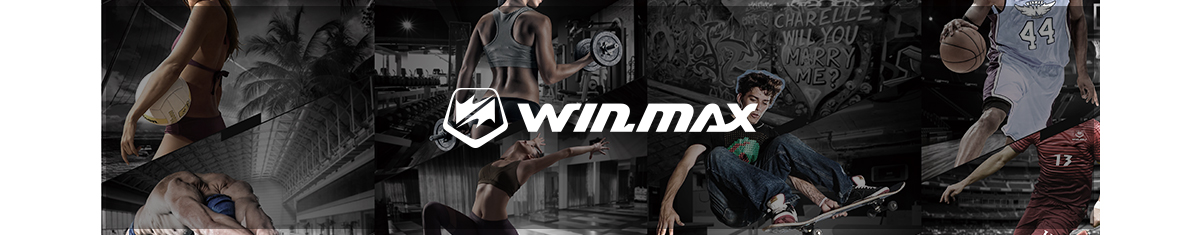
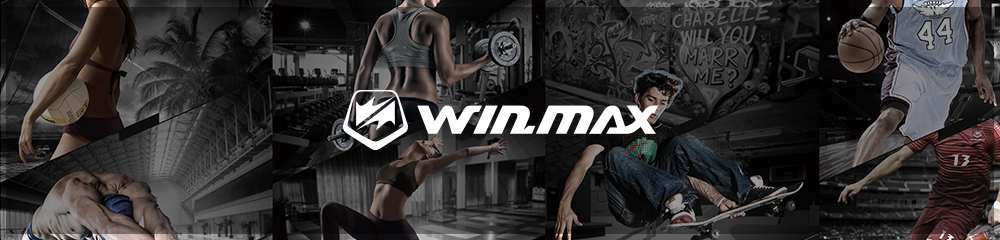
品牌修改

diff --git a/public/stylesheets/brand.less b/public/stylesheets/brand.less
@@ -21,30 +21,8 @@
             bottom: 0;
             left: 0;
             .animation(.4s);
-        }
-        &.brand-1{
-            .bgImg{
-                background-image: url(/images/bg_brand_1.jpg);
-            }
-        }
-        &.brand-2{
-            .bgImg{
-                background-image: url(/images/bg_brand_2.jpg);
-            }
-        }
-        &.brand-3{
-            .bgImg{
-                background-image: url(/images/bg_brand_3.jpg);
-            }
-        }
-        &.brand-4{
-            .bgImg{
-                background-image: url(/images/bg_brand_4.jpg);
-            }
-        }
-        &.brand-5{
-            .bgImg{
-                background-image: url(/images/bg_brand_5.jpg);
+            img{
+                width: 100%;
             }
         }
         &:hover{

diff --git a/public/stylesheets/brand.css b/public/stylesheets/brand.css
@@ -306,20 +306,8 @@
   -o-transition: all 0.4s;
   -ms-transition: all 0.4s;
 }
-#businessList .item.brand-1 .bgImg {
-  background-image: url(/images/bg_brand_1.jpg);
-}
-#businessList .item.brand-2 .bgImg {
-  background-image: url(/images/bg_brand_2.jpg);
-}
-#businessList .item.brand-3 .bgImg {
-  background-image: url(/images/bg_brand_3.jpg);
-}
-#businessList .item.brand-4 .bgImg {
-  background-image: url(/images/bg_brand_4.jpg);
-}
-#businessList .item.brand-5 .bgImg {
-  background-image: url(/images/bg_brand_5.jpg);
+#businessList .item .bgImg img {
+  width: 100%;
 }
 #businessList .item:hover {
   cursor: pointer;

diff --git a/json/brand.js b/json/brand.js
@@ -3,7 +3,23 @@ const text = {
         cn: '品牌',
         en: 'Brands',
         hk: '品牌'
-    }
+    },
+    brands: [{
+        bg: '/images/bg_brand_1.jpg',
+        link: '//www.winmaxsport.com'
+    }, {
+        bg: '/images/bg_brand_2.jpg',
+        link: '//www.mysisia.com'
+    }, {
+        bg: '/images/bg_brand_3.jpg',
+        link: '//www.neo-splash.com'
+    }, {
+        bg: '/images/bg_brand_4.jpg',
+        link: '//shop40355980.m.youzan.com/v2/showcase/feature?alias=Q0dSLFiiZl&sf=wx_menu'
+    }, {
+        bg: '/images/bg_brand_5.jpg',
+        link: ''
+    }]
 }
 
 module.exports = text;
